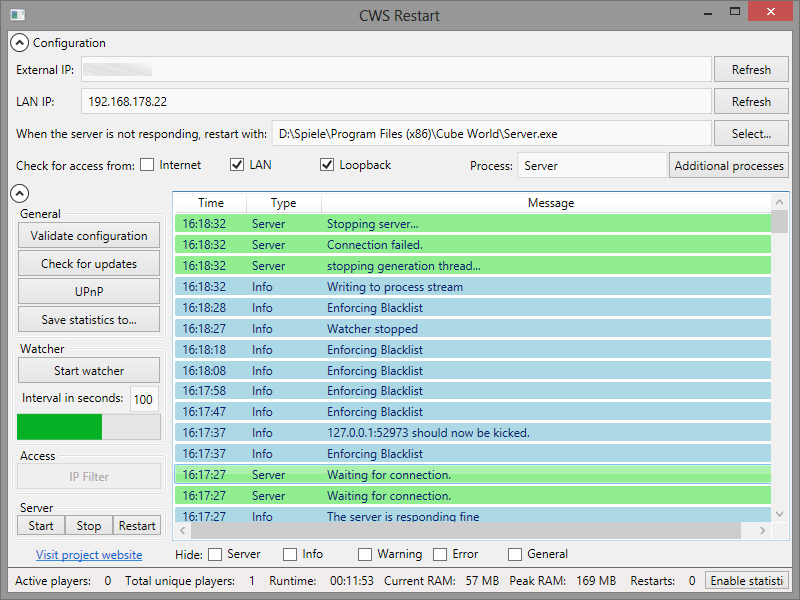
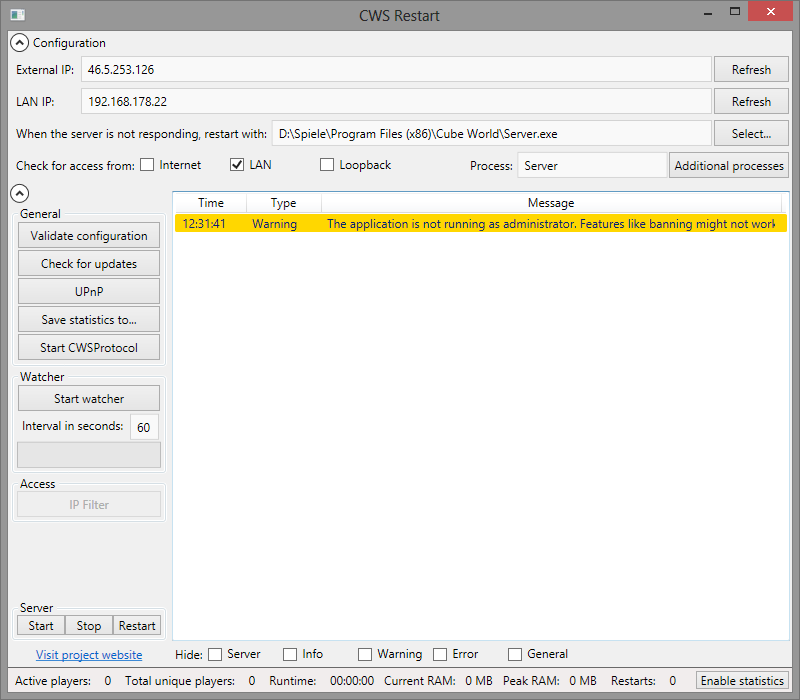
Update for v0.6.2

diff --git a/cwsweb.html b/cwsweb.html
@@ -37,6 +37,20 @@
     <div id="main_content_wrap" class="outer">
       <section id="main_content" class="inner">
        <p><a href="screenshots/cwsweb_preview.png" data-lightbox="screenshots-1" title="A development screenshot of the CWSWeb interface." data-lightbox="screenshot"><img src="/CWSRestart/screenshots/cwsweb_preview_thumb.png" alt="Screenshot of CWSRestart" style="width: 100%; height: 100%; max-height: 160px; max-width: 200px; float: right"></a>CWSWeb is the first external module for CWSRestart. It implements a basic web server, to display satistics to your users. CWSWeb is not included by default. Not everyone needs a server, so I didn't want to force people to have something they don't need. You'll need to download CWSWeb seperately instead. CWSWeb uses process to process communication to speak with CWSRestart.<br /><br />CWSWeb also includes an API, that allows you to receive data as JSON objects. The first version of CWSWeb will be available with the next release of CWSRestart.</p>
+          <h2>Configuration</h2>
+          <p>At the moment, there isnt much to configure. You can change the port on which the web service is listening, by launching CWSWeb with <code>CWSWeb <i>port</i></code> (for instance, if you'd like to have CWSWeb listen on port 80, you can launch it with <code>CWSWeb 80</code>). The displayed graph is generated, by parsing the logfile. To enable the graph, you'll need to specify a save location for the logfile in CWSRestart (use the button <i>Save statistics to...</i> to do this). By default, the last 200 lines will be read. This equals around half an hour. If you want to increase the timespan, you have several possibilities:</p>
+          <ul>
+              <li>Increase the <code>StatisticsInterval</code> in the ServerService.dll.config (in the CWSRestart folder): This setting contains the delay between two statistic updates (in ms).</li>
+              <li>Increase the <code>SaveStatisticsEvery</code> in the ServerService.dll.config (in the CWSRestart folder): This setting is the frequency, how often the statistics are saved to your logfiles. The statistics will be saved every <i>x</i> rounds of updates, with <i>x</i> = <code>SaveStatisticsEvery</code>.</li>
+              <li>Increase the <code>LinesToRead</code> in CWSWeb.exe.config: This setting tells CWSWeb how many lines should be read (starting at the end). High numbers can increase CPU and HDD usage.</li>
+          </ul>
+          <h2>API</h2>
+          <p>If you want to use the data from CWSWeb on your webpage, you can use a small API:</p>
+          <ul>
+              <li><code>/API/stats</code> will return all available info, such as runtime and if the server is running</li>
+              <li><code>/API/stats/playeractivity</code> will return the user activity over the past time</li>
+          </ul>
+          <p>You'll get the objects serialized as JSON. Timestamps are formated a bit odd. You can parse them to JavaScript dates with <code>new Date(parseInt(<i>timestamp</i>.substr(6)))</code></p>
       </section>
     </div>
 

diff --git a/manual.html b/manual.html
@@ -38,7 +38,7 @@
       <section id="main_content" class="inner">
           <p>Jump to <a href="#general">General usage</a> &dash; <a href="#stats">Statistics &amp; Access control</a> &dash; <a href="#advanced">Advaced settings</a></p>
           <h2 id="general">General usage</h2>
-          <a href="screenshots/guide1.png" data-lightbox="Frontend"><img src="/CWSRestart/screenshots/guide_small1.png" alt="Screenshot of CWSRestart" style="width: 100%; height: 100%; max-height: 450px; max-width: 600px;"></a>
+          <a href="screenshots/guide1.png" data-lightbox="Frontend"><img src="/CWSRestart/screenshots/guide_small1.png" alt="Screenshot of CWSRestart" style="width: 100%; height: 100%; max-height: 450px; max-width: 514px"></a>
           <p>To get started, you need to enter both your internal and external IP. To make things easier, you can hit both <i>Refresh</i> buttons, to retrieve them automatically.
               <br><br>Then you need to tell CWSRestart, what it should do, when the server is dead. Hit <i>Select...</i> and navigate to the Server.exe inside your CubeWorld folder. If you are using a custom launcher (for instance to change the number of players), select the launcher instead.
                 <br><br>Now we need to select, how CWSRestart from wich networks CWSRestart should try to access the server. If you are hosting a server for everyone, tick all three boxes. If you are hosting a server for your network only, leave <i>Internet</i> unchecked.
@@ -48,6 +48,7 @@
           <p>The <a href="/CWSRestart/screenshots/guide3.png" data-lightbox="UPnP">UPnP-Wizzard</a> can help you to set up port forwading. Just click <i>Refresh</i> and you can open/close the required ports. You need a UPnP enabled router to do this.</p>
           <p>With <i>Validate configuration</i> you can check, if all settings are set.</p>
           <p>The checkboxes below the log can be used to filter messages.</p>
+          <p>If you want to use <a href="cwsweb.html">CWSWeb</a>, you need to enable procces to process communication. You can start/stop comunication with the button <i>Start CWSProtocol</i></p>
           </p>
                 
           <h2 id="stats">Statistics &amp; Access control</h2>
